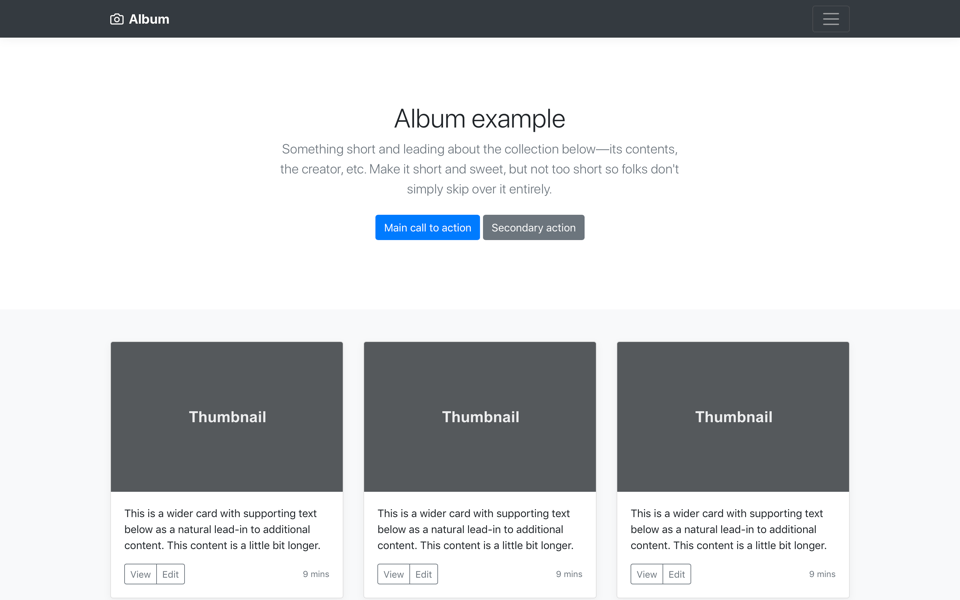
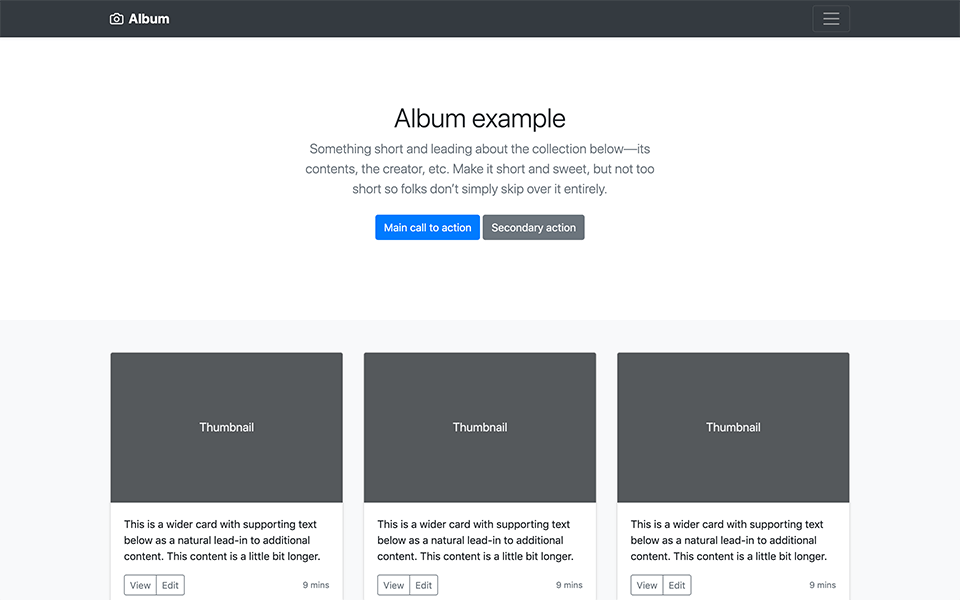
Removal of one of the most iconic components of Bootstrap: the jumbotron (#28876)

diff --git a/site/content/docs/4.3/examples/album/index.html b/site/content/docs/4.3/examples/album/index.html
@@ -1,8 +1,6 @@
 ---
 layout: examples
 title: Album example
-extra_css:
-  - "album.css"
 ---
 
 <header>
@@ -39,14 +37,16 @@ extra_css:
 
 <main role="main">
 
-  <section class="jumbotron text-center">
-    <div class="container">
-      <h1>Album example</h1>
-      <p class="lead text-muted">Something short and leading about the collection below—its contents, the creator, etc. Make it short and sweet, but not too short so folks don’t simply skip over it entirely.</p>
-      <p>
-        <a href="#" class="btn btn-primary my-2">Main call to action</a>
-        <a href="#" class="btn btn-secondary my-2">Secondary action</a>
-      </p>
+  <section class="py-5 text-center container">
+    <div class="row py-lg-5">
+      <div class="col-lg-6 col-md-8 mx-auto">
+        <h1 class="font-weight-light">Album example</h1>
+        <p class="lead text-muted">Something short and leading about the collection below—its contents, the creator, etc. Make it short and sweet, but not too short so folks don’t simply skip over it entirely.</p>
+        <p>
+          <a href="#" class="btn btn-primary my-2">Main call to action</a>
+          <a href="#" class="btn btn-secondary my-2">Secondary action</a>
+        </p>
+      </div>
     </div>
   </section>
 
@@ -197,12 +197,12 @@ extra_css:
 
 </main>
 
-<footer class="text-muted">
+<footer class="text-muted py-5">
   <div class="container">
-    <p class="float-right">
+    <p class="float-right mb-1">
       <a href="#">Back to top</a>
     </p>
-    <p>Album example is &copy; Bootstrap, but please download and customize it for yourself!</p>
-    <p>New to Bootstrap? <a href="/">Visit the homepage</a> or read our <a href="{{< docsref "/getting-started/introduction" >}}">getting started guide</a>.</p>
+    <p class="mb-1">Album example is &copy; Bootstrap, but please download and customize it for yourself!</p>
+    <p class="mb-0">New to Bootstrap? <a href="/">Visit the homepage</a> or read our <a href="{{< docsref "/getting-started/introduction" >}}">getting started guide</a>.</p>
   </div>
 </footer>

diff --git a/site/content/docs/4.3/examples/navbars/index.html b/site/content/docs/4.3/examples/navbars/index.html
@@ -310,7 +310,7 @@ extra_css:
   </nav>
 
   <main role="main">
-    <div class="jumbotron">
+    <div class="bg-light p-5 rounded">
       <div class="col-sm-8 mx-auto">
         <h1>Navbar examples</h1>
         <p>This example is a quick exercise to illustrate how the navbar and its contents work. Some navbars extend the width of the viewport, others are confined within a <code>.container</code>. For positioning of navbars, checkout the <a href="{{< docsref "/examples/navbar-static" >}}">top</a> and <a href="{{< docsref "/examples/navbar-fixed" >}}">fixed top</a> examples.</p>

diff --git a/site/content/docs/4.3/examples/navbar-static/index.html b/site/content/docs/4.3/examples/navbar-static/index.html
@@ -30,7 +30,7 @@ extra_css:
 </nav>
 
 <main role="main" class="container">
-  <div class="jumbotron">
+  <div class="bg-light p-5 rounded">
     <h1>Navbar example</h1>
     <p class="lead">This example is a quick exercise to illustrate how the top-aligned navbar works. As you scroll, this navbar remains in its original position and moves with the rest of the page.</p>
     <a class="btn btn-lg btn-primary" href="{{< docsref "/components/navbar" >}}" role="button">View navbar docs &raquo;</a>

diff --git a/site/content/docs/4.3/examples/blog/index.html b/site/content/docs/4.3/examples/blog/index.html
@@ -42,7 +42,7 @@ include_js: false
     </nav>
   </div>
 
-  <div class="jumbotron p-4 p-md-5 text-white rounded bg-dark">
+  <div class="p-4 p-md-5 mb-4 text-white rounded bg-dark">
     <div class="col-md-6 px-0">
       <h1 class="display-4 font-italic">Title of a longer featured blog post</h1>
       <p class="lead my-3">Multiple lines of text that form the lede, informing new readers quickly and efficiently about what’s most interesting in this post’s contents.</p>

diff --git a/site/content/docs/4.3/examples/navbar-fixed/index.html b/site/content/docs/4.3/examples/navbar-fixed/index.html
@@ -30,7 +30,7 @@ extra_css:
 </nav>
 
 <main role="main" class="container">
-  <div class="jumbotron">
+  <div class="bg-light p-5 rounded">
     <h1>Navbar example</h1>
     <p class="lead">This example is a quick exercise to illustrate how fixed to top navbar works. As you scroll, it will remain fixed to the top of your browser’s viewport.</p>
     <a class="btn btn-lg btn-primary" href="{{< docsref "/components/navbar" >}}" role="button">View navbar docs &raquo;</a>

diff --git a/site/content/docs/4.3/examples/navbar-bottom/index.html b/site/content/docs/4.3/examples/navbar-bottom/index.html
@@ -4,7 +4,7 @@ title: Bottom navbar example
 ---
 
 <div class="container">
-  <div class="jumbotron mt-3">
+  <div class="bg-light p-5 rounded mt-3">
     <h1>Bottom Navbar example</h1>
     <p class="lead">This example is a quick exercise to illustrate how the bottom navbar works.</p>
     <a class="btn btn-lg btn-primary" href="{{< docsref "/components/navbar" >}}" role="button">View navbar docs &raquo;</a>

diff --git a/scss/_variables.scss b/scss/_variables.scss
@@ -811,13 +811,6 @@ $pagination-disabled-bg:            $white !default;
 $pagination-disabled-border-color:  $gray-300 !default;
 
 
-// Jumbotron
-
-$jumbotron-padding:                 2rem !default;
-$jumbotron-color:                   null !default;
-$jumbotron-bg:                      $gray-200 !default;
-
-
 // Cards
 
 $card-spacer-y:                     .75rem !default;

diff --git a/scss/bootstrap.scss b/scss/bootstrap.scss
@@ -35,7 +35,6 @@
 @import "breadcrumb";
 @import "pagination";
 @import "badge";
-@import "jumbotron";
 @import "alert";
 @import "progress";
 @import "list-group";

diff --git a/site/content/docs/4.3/migration.md b/site/content/docs/4.3/migration.md
@@ -77,6 +77,10 @@ Badges were overhauled to better differentiate themselves from buttons and to be
 - **Todo:** Removed `.badge-pill` for the `.rounded-pill` utility class
 - **Todo:** Removed badge's hover and focus styles for `a.badge` and `button.badge`.
 
+### Jumbotron
+
+- The jumbotron component is removed in favor of utility classes like `.bg-light` for the background color and `.p-*` classes to control padding.
+
 ### Popovers
 
 - Renamed `.arrow` to `.popover-arrow`
